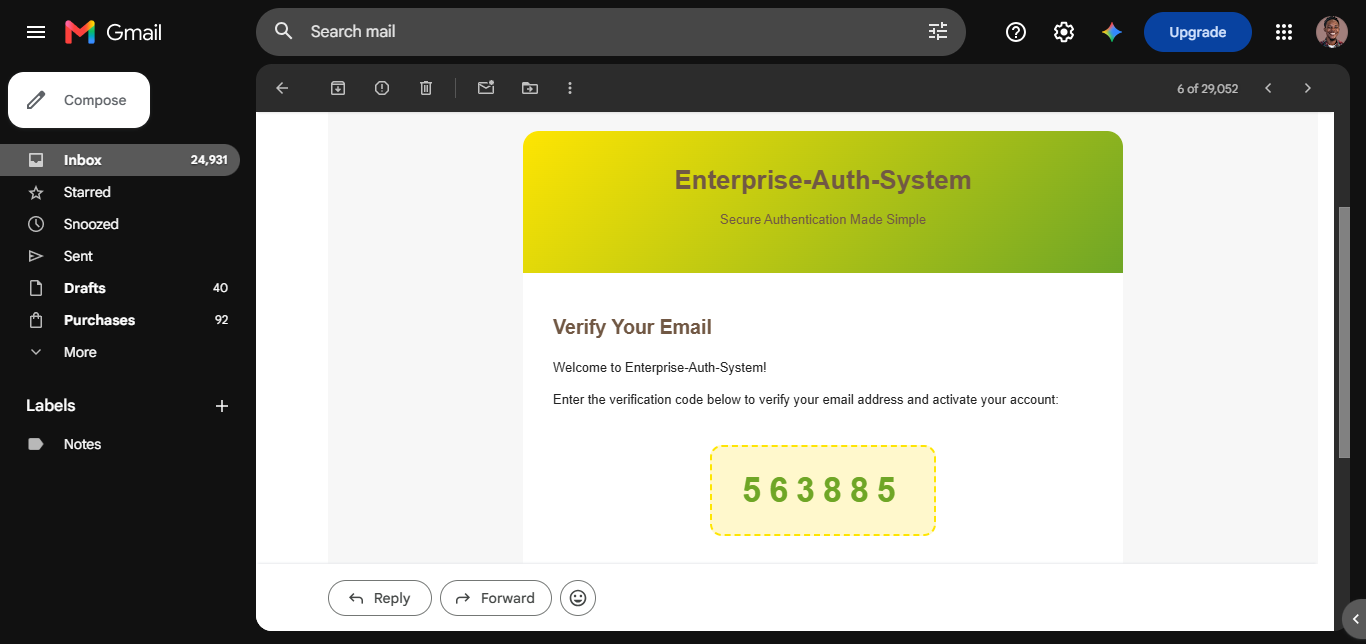
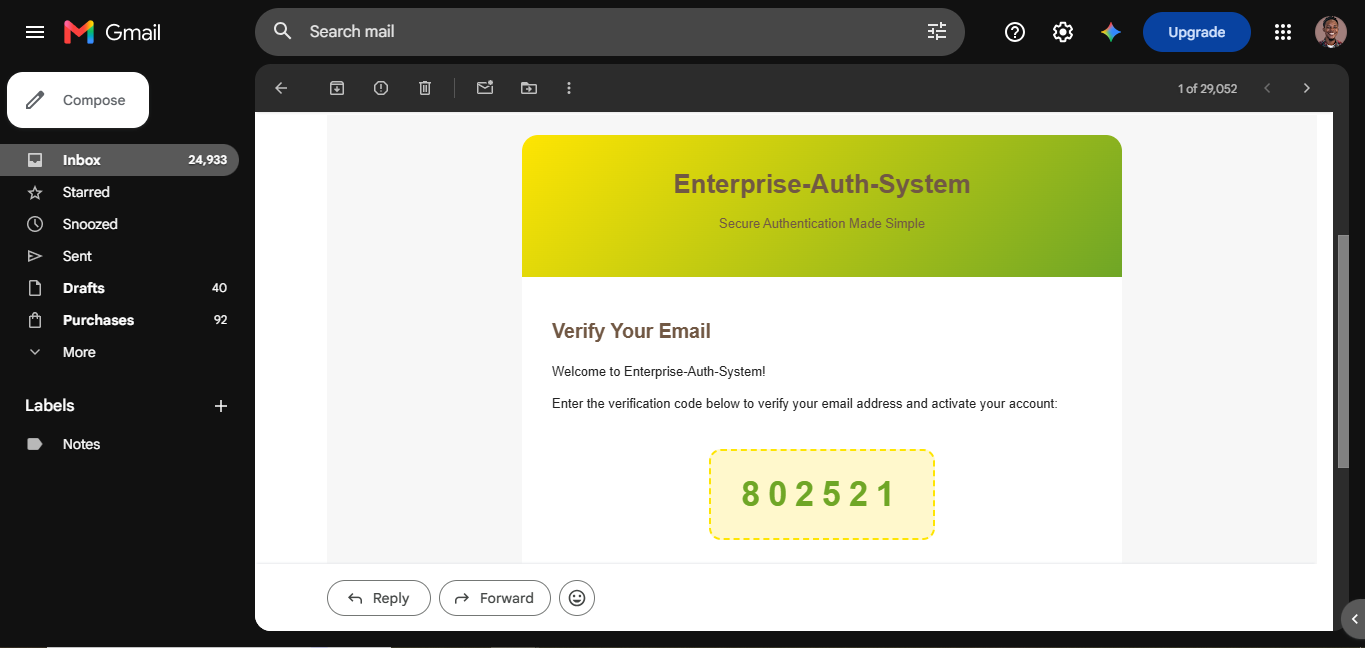
feat: updated readme

diff --git a/ReadMe.md b/ReadMe.md
@@ -1,30 +1,37 @@
-# Enterprise Authentication System (EAS)
+# Enterprise Auth System
 
-A production-style full-stack authentication system built with the MERN stack.
+Production-ready authentication system built with React, TypeScript, Node.js, Express, MongoDB, JWT, Zustand, React Hook Form, Zod, and Mailtrap.
 
-This project demonstrates how modern applications handle:
+## 🔗 Live Demo
 
-- User registration
-- Email verification
-- Secure login
-- JWT authentication
-- Protected routes
-- Password reset workflows
-- Email delivery
-- Session persistence
+[\[View Live\]](https://enterprise-auth-system-3y2i.onrender.com/)
+
+## ⭐ Support
+
+If you found this project helpful:
+
+- ⭐ Star the repository
+- 🍴 Fork the repository
+- 🐛 Report issues
+- 💡 Suggest improvements
+
+## ✨ Features
+
+- User Registration
+- Email Verification
+- Login / Logout
+- Protected Routes
+- Guest Routes
+- Session Persistence
+- Password Reset
+- Password Strength Validation
+- JWT Authentication
+- Secure HTTP-Only Cookies
+- Error Classification
+- Production Deployment
 - Authentication security best practices
 
 The project was built as a portfolio case study focused on authentication architecture rather than business-specific features.
-
----
-
-## Live Demo
-
-Frontend:
-[\[Live Live\]](https://enterprise-auth-system-3y2i.onrender.com/)
-
-Backend API:
-[\[Backend API\]](https://enterprise-auth-system-3y2i.onrender.com/api)
 
 ---
 
